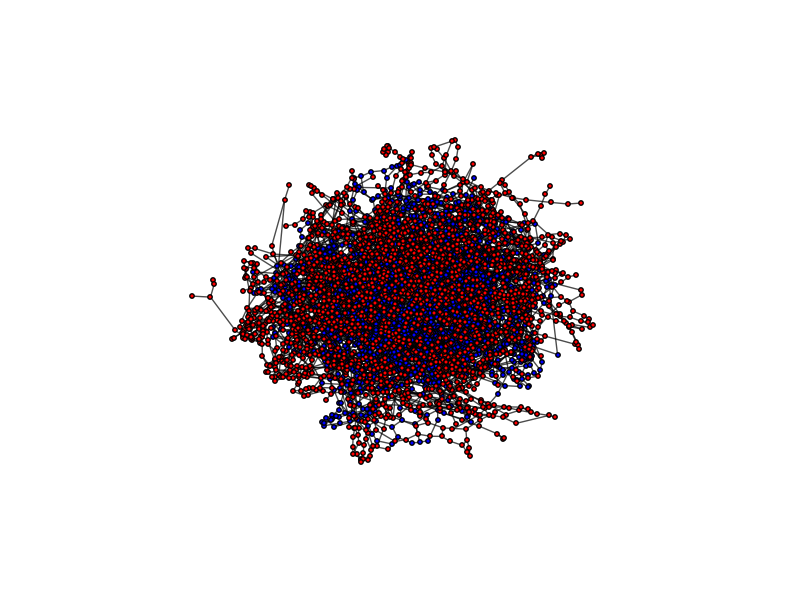
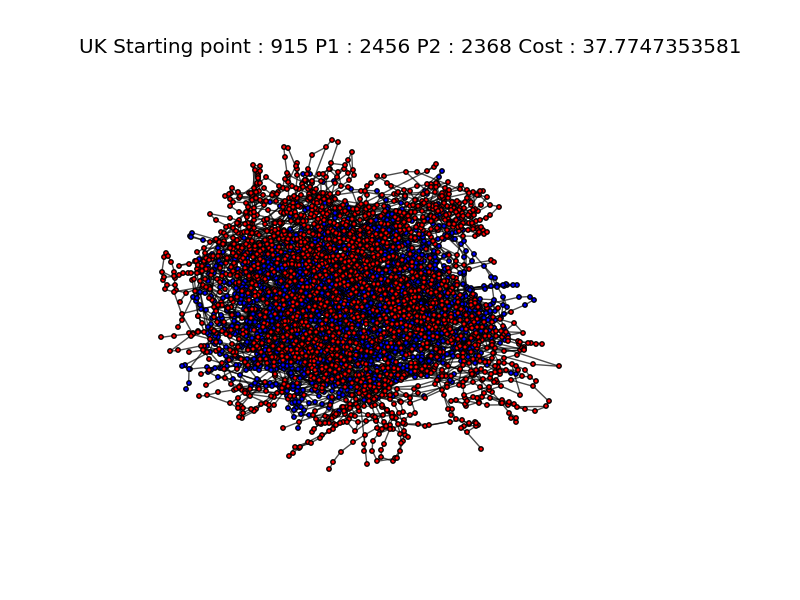
Added multiple visualization and launches of the script

Changed region(s): [[0.1875, 0.21, 0.75, 0.78], [0.0938, 0.06, 0.9375, 0.09], [0.6562, 0.24, 0.6875, 0.27]]

diff --git a/parser_graphe.py b/parser_graphe.py
@@ -11,9 +11,10 @@ import matplotlib.pyplot  as plt
 import random as rd
 
 
-def draw_bipartite_graph(G,P1,P2,file_name):
+def draw_bipartite_graph(G,P1,P2,file_name,title):
     print("Drawing graph")
     plt.figure(figsize=(8,6))
+    plt.title(title)
     pos=nx.spring_layout(G)
     nx.draw_networkx_nodes(G,pos,nodelist=P1,node_size=10, node_color='b')
     nx.draw_networkx_nodes(G,pos,nodelist=P2, node_size=10, node_color='r')
@@ -113,7 +114,7 @@ def greedy(G,starting_node):
         P1.extend(new_succesors)
         #print len(P1)
         I = I+1
-        print("Step {}".format(I))
+        #print("Step {}".format(I))
 
         last_successors = new_succesors
 
@@ -127,13 +128,13 @@ def greedy(G,starting_node):
     print "Size of second partition : {}".format(len(P2))
     print "Size of graph : {}".format(G.number_of_nodes())
     print"Number of edges : {}".format(G.number_of_edges())
-    return P1,P2
+    return P1,P2,starting_point
 
 
 
 
 #take A and B lists of nodes in partitions and return the cost of the slice in graph G (total sum of wieghts)
-def cost(A,B,G):
+def cost_slice(A,B,G):
     L = []
     result = 0
     for x in A:
@@ -151,11 +152,37 @@ def cost(A,B,G):
 
 
 G = parse_graph("uk.graph")
-P1,P2 = greedy(G,1000)
-L, cost = cost(P1,P2,G)
-print("Cost of the slice : {}".format(cost))
-draw_bipartite_graph(G,P1,P2,"uk_start_1000")
 
+P1,P2,starting_point = greedy(G,1)
+L, cost = cost_slice(P1,P2,G)
+print("Cost of the slice : {}".format(cost))
+title = "UK Starting point : {} P1 : {} P2 : {} Cost : {}".format(starting_point, len(P1), len(P2),cost)
+draw_bipartite_graph(G,P1,P2,"uk_start_1",title)
+
+P1,P2,starting_point = greedy(G,500)
+L, cost = cost_slice(P1,P2,G)
+print("Cost of the slice : {}".format(cost))
+title = "UK Starting point : {} P1 : {} P2 : {} Cost : {}".format(starting_point, len(P1), len(P2),cost)
+draw_bipartite_graph(G,P1,P2,"uk_start_500",title)
+
+P1,P2,starting_point = greedy(G,1000)
+L, cost = cost_slice(P1,P2,G)
+print("Cost of the slice : {}".format(cost))
+title = "UK Starting point : {} P1 : {} P2 : {} Cost : {}".format(starting_point, len(P1), len(P2),cost)
+draw_bipartite_graph(G,P1,P2,"uk_start_1000",title)
+
+P1,P2,starting_point = greedy(G,1500)
+L, cost = cost_slice(P1,P2,G)
+print("Cost of the slice : {}".format(cost))
+title = "UK Starting point : {} P1 : {} P2 : {} Cost : {}".format(starting_point, len(P1), len(P2),cost)
+draw_bipartite_graph(G,P1,P2,"uk_start_1500",title)
+
+
+P1,P2,starting_point = greedy(G,2000)
+L, cost = cost_slice(P1,P2,G)
+print("Cost of the slice : {}".format(cost))
+title = "UK Starting point : {} P1 : {} P2 : {} Cost : {}".format(starting_point, len(P1), len(P2),cost)
+draw_bipartite_graph(G,P1,P2,"uk_start_2000",title)
 
 
 
